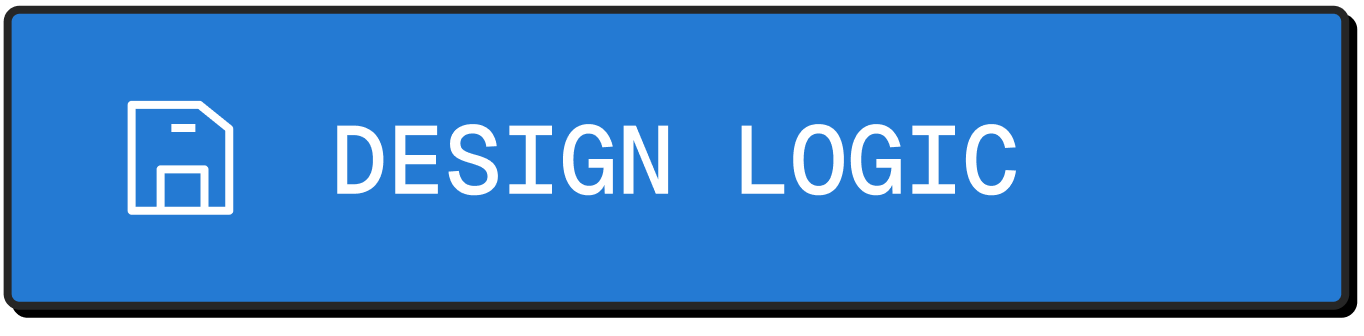
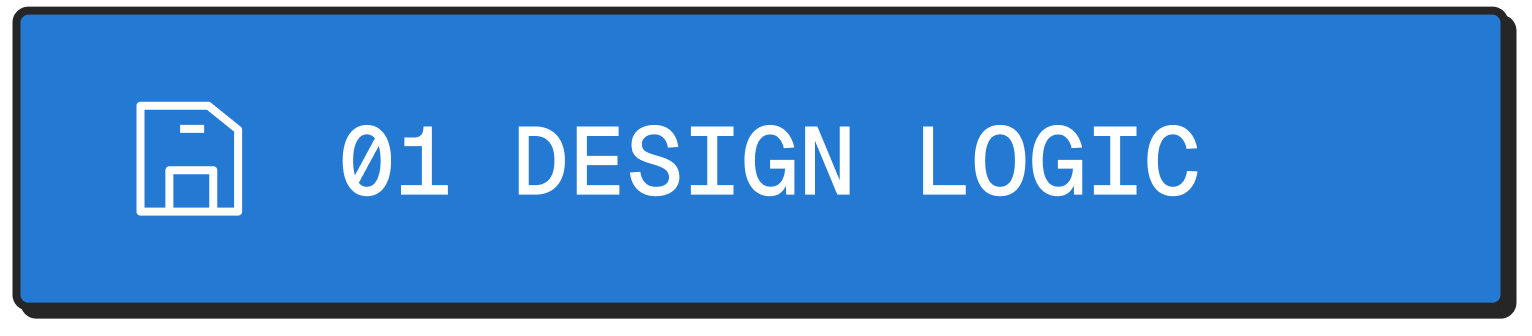
feat: refresh portfolio project cards

Changed region(s): [[0.0, 0.0, 1.0, 0.9524], [0.2155, 0.3571, 0.8006, 0.5952], [0.0616, 0.2976, 0.1848, 0.6548]]

diff --git a/tests/unit/project-card-assets.test.ts b/tests/unit/project-card-assets.test.ts
@@ -1,0 +1,36 @@
+import { createHash } from "node:crypto";
+import { readFileSync } from "node:fs";
+import { join } from "node:path";
+import { expect, test } from "vitest";
+
+const expectedHashes: Record<string, string> = {
[20 lines of base64/hex data omitted]
+};
+
+test("uses the latest supplied desktop and mobile project card artwork", () => {
+  for (const [file, expected] of Object.entries(expectedHashes)) {
+    const actual = createHash("sha256")
+      .update(readFileSync(join(process.cwd(), file)))
+      .digest("hex");
+    expect(actual, file).toBe(expected);
+  }
+});

diff --git a/tests/components/PortfolioHeader.test.tsx b/tests/components/PortfolioHeader.test.tsx
@@ -12,7 +12,7 @@ test("selects WORK on the home and case routes", () => {
   route.pathname = "/";
   const { rerender } = render(<PortfolioHeader />);
   const work = screen.getByRole("link", { name: "WORK @" });
-  const about = screen.getByRole("link", { name: "ABOUT" });
+  const about = screen.getByRole("link", { name: "ABOUT ME" });
 
   expect(work).toHaveTextContent("→ WORK @");
   expect(work).toHaveAttribute("aria-current", "page");
@@ -29,11 +29,11 @@ test("moves the arrow to ABOUT on the profile route", () => {
   route.pathname = "/about";
   render(<PortfolioHeader />);
   const work = screen.getByRole("link", { name: "WORK @" });
-  const about = screen.getByRole("link", { name: "ABOUT" });
+  const about = screen.getByRole("link", { name: "ABOUT ME" });
 
   expect(work).toHaveTextContent("WORK @");
   expect(work).not.toHaveTextContent("→");
   expect(work).not.toHaveAttribute("aria-current");
-  expect(about).toHaveTextContent("→ ABOUT");
+  expect(about).toHaveTextContent("→ ABOUT ME");
   expect(about).toHaveAttribute("aria-current", "page");
 });

diff --git a/tests/unit/kv-assets.test.ts b/tests/unit/kv-assets.test.ts
@@ -57,11 +57,11 @@ describe("generated KV assets", () => {
 
   it("uses the approved high-resolution desktop artwork for every project state", () => {
     const expectedSizes = {
-      about: { width: 1152, height: 336 },
-      "design-logic": { width: 1364, height: 336 },
-      "brand-system": { width: 1384, height: 336 },
-      "product-launch": { width: 1484, height: 336 },
-      "launch-event": { width: 1376, height: 336 },
+      about: { width: 1316, height: 336 },
+      "design-logic": { width: 1532, height: 336 },
+      "brand-system": { width: 1348, height: 336 },
+      "product-launch": { width: 1576, height: 336 },
+      "launch-event": { width: 1524, height: 336 },
     } as const;
 
     for (const [id, expectedSize] of Object.entries(expectedSizes)) {

diff --git a/components/portfolio/PortfolioHeader.tsx b/components/portfolio/PortfolioHeader.tsx
@@ -43,11 +43,11 @@ export default function PortfolioHeader() {
         </Link>
         <Link
           href="/about"
-          aria-label="ABOUT"
+          aria-label="ABOUT ME"
           aria-current={aboutSelected ? "page" : undefined}
           className={aboutSelected ? styles.navSelected : styles.navUnselected}
         >
-          {aboutSelected ? "→ ABOUT" : "ABOUT"}
+          {aboutSelected ? "→ ABOUT ME" : "ABOUT ME"}
         </Link>
       </nav>
       <div className={styles.contact}>
